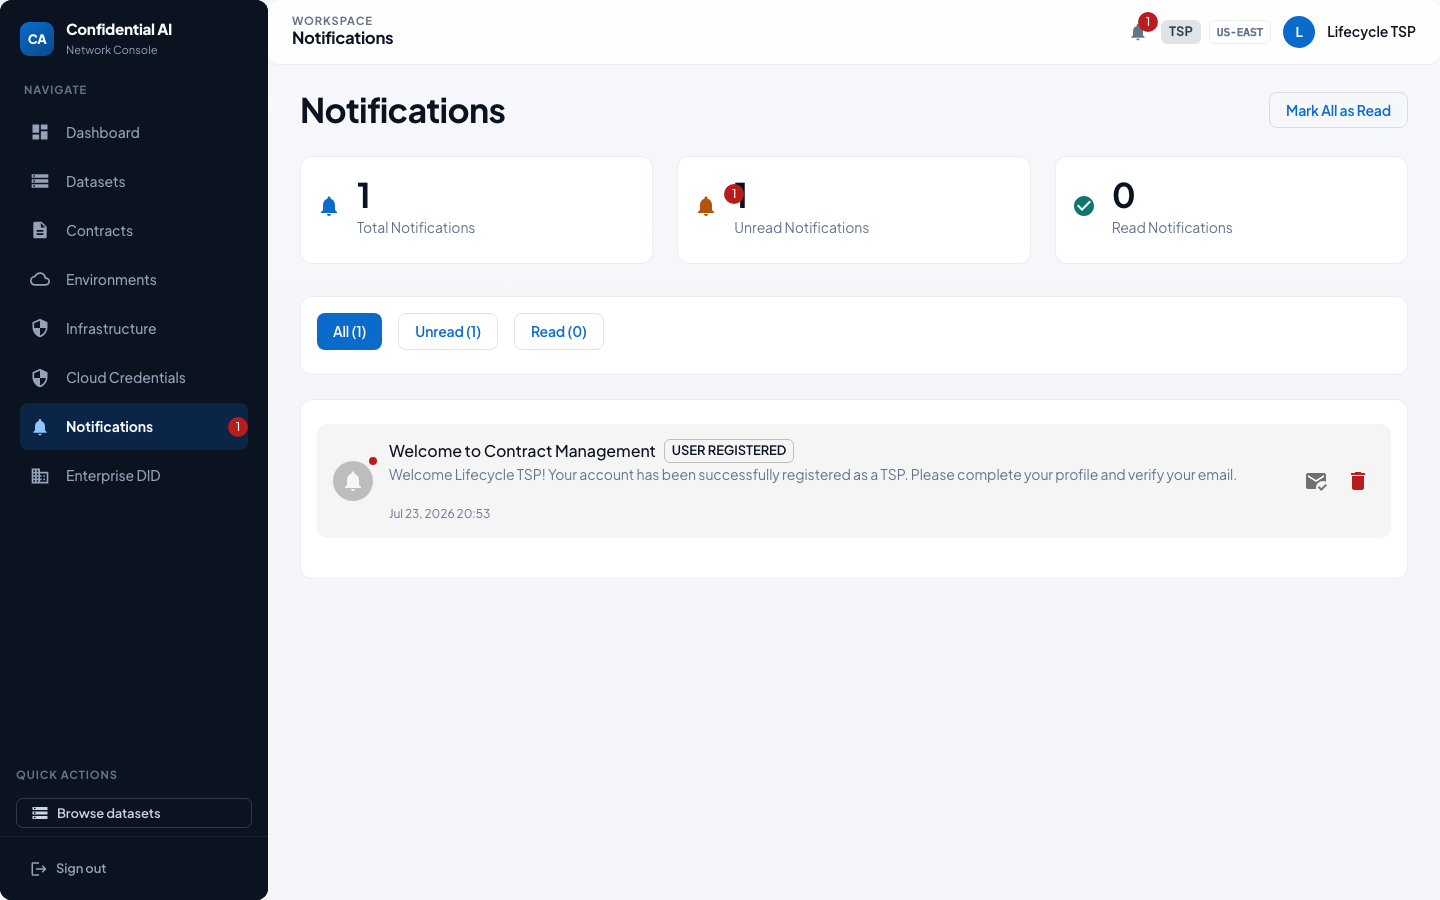
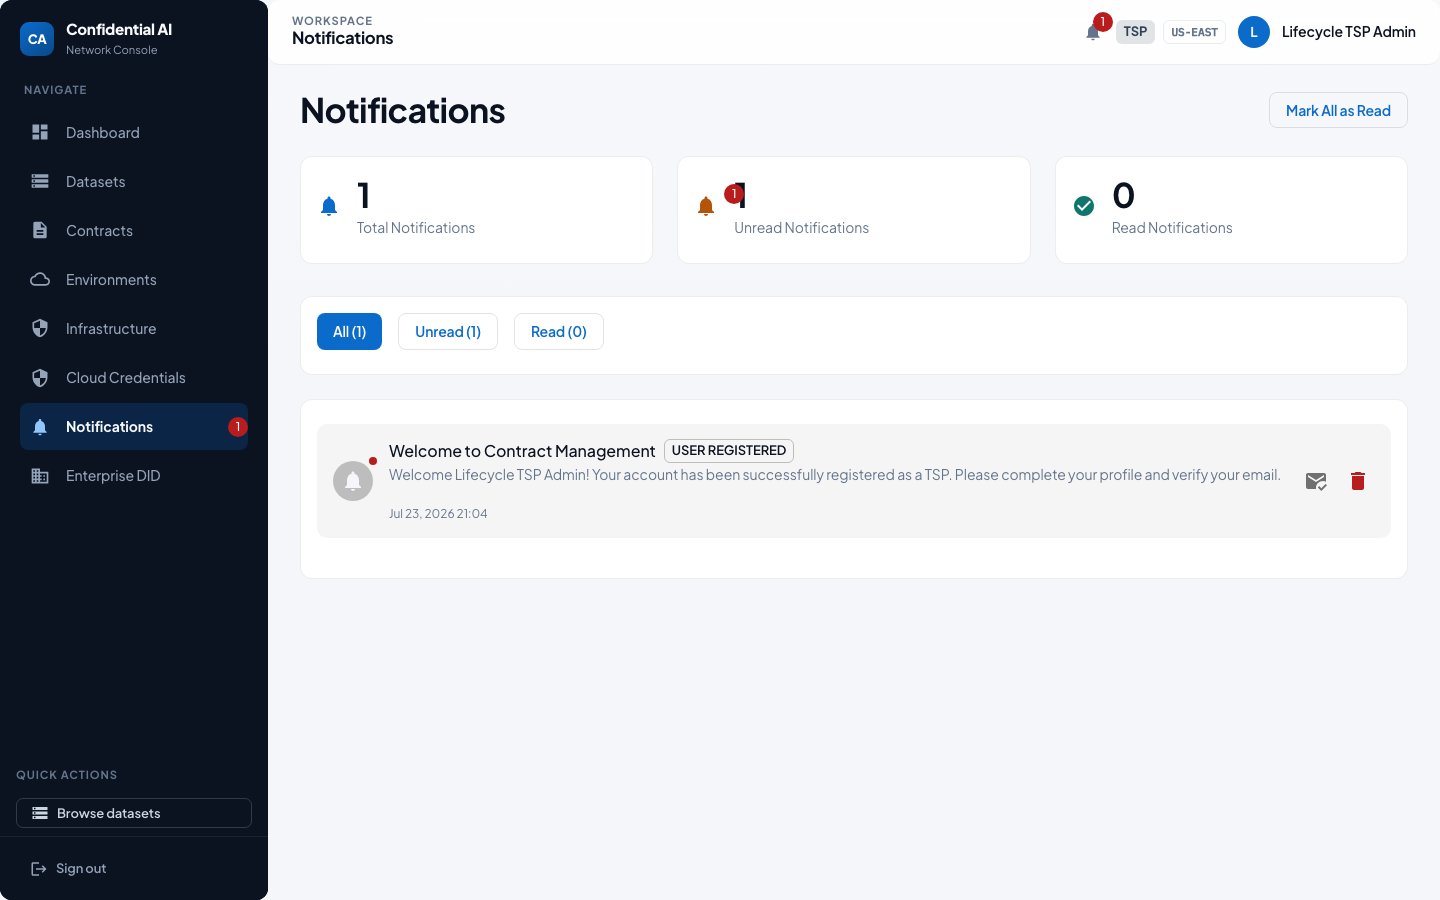
docs: use enterprise registration in lifecycle guide
Onboard TDC, TDP, and TSP via User Type=Enterprise with organization
fields, then refresh lifecycle screenshots and guide copy.

diff --git a/frontend/tests/e2e/lifecycle-user-guide.spec.js b/frontend/tests/e2e/lifecycle-user-guide.spec.js
@@ -35,16 +35,36 @@ test.describe('Lifecycle user guide (screenshot tour)', () => {
     const tdpEmail = `lifecycle.tdp.${ts}@test.com`;
     const tspEmail = `lifecycle.tsp.${ts}@test.com`;
     const datasetName = `Lifecycle Dataset ${ts}`;
+    const orgs = {
+      TDC: 'Lifecycle Health AI Consortium',
+      TDP: 'Lifecycle Data Bank Corp',
+      TSP: 'Lifecycle Clean Room Compute',
+    };
 
-    async function registerViaUI({ name, email, partyType }) {
+    async function selectMui(labelText, optionName) {
+      const control = page.locator('.MuiFormControl-root').filter({ hasText: labelText }).first();
+      await control.getByRole('combobox').click();
+      await page.getByRole('option', { name: optionName }).click();
+    }
+
+    async function registerEnterpriseViaUI({ name, email, partyType, organization }) {
       await page.goto('/register');
       await expect(page.getByRole('heading', { name: 'User Registration', exact: true })).toBeVisible();
+
+      // User Type → Enterprise (exposes Organization and enterprise DID path).
+      await selectMui('User Type', /^Enterprise$/i);
+
       await page.getByLabel('Full Name').fill(name);
       await page.getByLabel('Email').fill(email);
-      await page.getByRole('combobox').nth(1).click();
-      await page.getByRole('option', { name: new RegExp(`\\(${partyType}\\)`, 'i') }).click();
+
+      await selectMui('Role', new RegExp(`\\(${partyType}\\)`, 'i'));
+
+      const orgField = page.getByLabel('Organization');
+      await expect(orgField).toBeVisible({ timeout: 10000 });
+      await orgField.fill(organization);
+
       await page.getByLabel('Public Key').fill('0x' + 'b'.repeat(64));
-      await settle(page, 300);
+      await settle(page, 400);
       return page;
     }
 
@@ -61,11 +81,19 @@ test.describe('Lifecycle user guide (screenshot tour)', () => {
       return match[1];
     }
 
-    // --- 1–3 Onboard participants ---
-    await registerViaUI({ name: 'Lifecycle TDC', email: tdcEmail, partyType: 'TDC' });
+    // --- 1–3 Onboard participants (Enterprise registration) ---
+    await registerEnterpriseViaUI({
+      name: 'Lifecycle TDC Admin',
+      email: tdcEmail,
+      partyType: 'TDC',
+      organization: orgs.TDC,
+    });
     steps.push({
-      title: 'Onboard TDC (register)',
-      body: 'Each participant starts at **User Registration**. Select party type **TDC (Training Data Consumer)**, then register.',
+      title: 'Enterprise onboard TDC',
+      body: [
+        'Open **User Registration** and set **User Type** to **Enterprise**.',
+        'Choose role **TDC (Training Data Consumer)**, enter the organization name, public key, and register.',
+      ].join('\n'),
       ...(await captureShot(page, '01-onboard-tdc-register.png')),
     });
     const tdcTemp = await submitRegistration();
@@ -76,15 +104,23 @@ test.describe('Lifecycle user guide (screenshot tour)', () => {
     });
     steps.push({
       title: 'TDC first login dashboard',
-      body: 'After first-login password setup, the TDC lands on their dashboard and can browse datasets / create contracts.',
+      body: 'After first-login password setup, the enterprise TDC lands on their dashboard and can browse datasets / create contracts.',
       ...(await captureShot(page, '02-onboard-tdc-dashboard.png')),
     });
     await logoutViaUI(page);
 
-    await registerViaUI({ name: 'Lifecycle TDP', email: tdpEmail, partyType: 'TDP' });
+    await registerEnterpriseViaUI({
+      name: 'Lifecycle TDP Admin',
+      email: tdpEmail,
+      partyType: 'TDP',
+      organization: orgs.TDP,
+    });
     steps.push({
-      title: 'Onboard TDP (register)',
-      body: 'Register a **TDP (Training Data Provider)** who will publish datasets and sign contracts that use them.',
+      title: 'Enterprise onboard TDP',
+      body: [
+        'Register an enterprise **TDP (Training Data Provider)** with organization details.',
+        'This party publishes datasets and signs contracts that use them.',
+      ].join('\n'),
       ...(await captureShot(page, '03-onboard-tdp-register.png')),
     });
     const tdpTemp = await submitRegistration();
@@ -142,10 +178,18 @@ test.describe('Lifecycle user guide (screenshot tour)', () => {
     });
     await logoutViaUI(page);
 
-    await registerViaUI({ name: 'Lifecycle TSP', email: tspEmail, partyType: 'TSP' });
+    await registerEnterpriseViaUI({
+      name: 'Lifecycle TSP Admin',
+      email: tspEmail,
+      partyType: 'TSP',
+      organization: orgs.TSP,
+    });
     steps.push({
-      title: 'Onboard TSP / CCRP (register)',
-      body: 'Register a **TSP** (Tech Service Provider; also called CCRP in older docs) who hosts the training environment and co-signs the contract.',
+      title: 'Enterprise onboard TSP / CCRP',
+      body: [
+        'Register an enterprise **TSP** (Tech Service Provider; also called CCRP in older docs).',
+        'This party hosts the training environment and co-signs the contract.',
+      ].join('\n'),
       ...(await captureShot(page, '06-onboard-tsp-register.png')),
     });
     const tspTemp = await submitRegistration();
@@ -156,7 +200,7 @@ test.describe('Lifecycle user guide (screenshot tour)', () => {
     await expect(page.getByRole('main')).toBeVisible({ timeout: 60000 });
     steps.push({
       title: 'TSP Local cloud readiness',
-      body: 'Configure the TSP with a **Local** provider so contracts can run with `TRAINING_EXECUTION_MODE=local-docker` in this environment.',
+      body: 'Configure the enterprise TSP with a **Local** provider so contracts can run with `TRAINING_EXECUTION_MODE=local-docker` in this environment.',
       ...(await captureShot(page, '07-onboard-tsp-local.png')),
     });
     await logoutViaUI(page);

diff --git a/frontend/tests/e2e/helpers/lifecycle-user-guide.js b/frontend/tests/e2e/helpers/lifecycle-user-guide.js
@@ -135,7 +135,7 @@ function buildMarkdown({ steps, generatedAt }) {
     '',
     'This guide walks through the full multi-party happy path in the local stack:',
     '',
-    '1. Onboard **TDC**, **TDP**, and **TSP/CCRP** participants',
+    '1. **Enterprise-register** **TDC**, **TDP**, and **TSP/CCRP** (User Type = Enterprise + organization)',
     '2. TDP publishes a dataset',
     '3. TDC creates a Ricardian contract',
     '4. TDP and TSP are notified, review, and sign',
@@ -145,7 +145,8 @@ function buildMarkdown({ steps, generatedAt }) {
     '',
     '| Role | Notes |',
     '|---|---|',
-    '| TDC / TDP / TSP | Fresh users registered during the guide run (emails in screenshots) |',
+    '| TDC / TDP / TSP | Fresh **enterprise** users registered during the guide run (emails + orgs in screenshots) |',
+    '| Registration mode | **User Type = Enterprise** (organization field required in the UI tour) |',
     '| Password after first login | `TestNewPassword123!` |',
     '| Local compute | TSP is configured with **Local** cloud provider for `TRAINING_EXECUTION_MODE=local-docker` |',
     '',

diff --git a/docs/guides/lifecycle-user-guide/LIFECYCLE_USER_GUIDE.md b/docs/guides/lifecycle-user-guide/LIFECYCLE_USER_GUIDE.md
@@ -5,7 +5,7 @@
 
 This guide walks through the full multi-party happy path in the local stack:
 
-1. Onboard **TDC**, **TDP**, and **TSP/CCRP** participants
+1. **Enterprise-register** **TDC**, **TDP**, and **TSP/CCRP** (User Type = Enterprise + organization)
 2. TDP publishes a dataset
 3. TDC creates a Ricardian contract
 4. TDP and TSP are notified, review, and sign
@@ -15,29 +15,32 @@ This guide walks through the full multi-party happy path in the local stack:
 
 | Role | Notes |
 |---|---|
-| TDC / TDP / TSP | Fresh users registered during the guide run (emails in screenshots) |
+| TDC / TDP / TSP | Fresh **enterprise** users registered during the guide run (emails + orgs in screenshots) |
+| Registration mode | **User Type = Enterprise** (organization field required in the UI tour) |
 | Password after first login | `TestNewPassword123!` |
 | Local compute | TSP is configured with **Local** cloud provider for `TRAINING_EXECUTION_MODE=local-docker` |
 
 ## Happy path
 
-### 1. Onboard TDC (register)
+### 1. Enterprise onboard TDC
 
-Each participant starts at **User Registration**. Select party type **TDC (Training Data Consumer)**, then register.
+Open **User Registration** and set **User Type** to **Enterprise**.
+Choose role **TDC (Training Data Consumer)**, enter the organization name, public key, and register.
 
-![Onboard TDC (register)](screenshots/01-onboard-tdc-register.png)
+![Enterprise onboard TDC](screenshots/01-onboard-tdc-register.png)
 
 ### 2. TDC first login dashboard
 
-After first-login password setup, the TDC lands on their dashboard and can browse datasets / create contracts.
+After first-login password setup, the enterprise TDC lands on their dashboard and can browse datasets / create contracts.
 
 ![TDC first login dashboard](screenshots/02-onboard-tdc-dashboard.png)
 
-### 3. Onboard TDP (register)
+### 3. Enterprise onboard TDP
 
-Register a **TDP (Training Data Provider)** who will publish datasets and sign contracts that use them.
+Register an enterprise **TDP (Training Data Provider)** with organization details.
+This party publishes datasets and signs contracts that use them.
 
-![Onboard TDP (register)](screenshots/03-onboard-tdp-register.png)
+![Enterprise onboard TDP](screenshots/03-onboard-tdp-register.png)
 
 ### 4. TDP first login dashboard
 
@@ -51,15 +54,16 @@ The TDP publishes a catalog dataset. TDCs can select it when creating a Ricardia
 
 ![TDP publishes a dataset](screenshots/05-tdp-dataset-published.png)
 
-### 6. Onboard TSP / CCRP (register)
+### 6. Enterprise onboard TSP / CCRP
 
-Register a **TSP** (Tech Service Provider; also called CCRP in older docs) who hosts the training environment and co-signs the contract.
+Register an enterprise **TSP** (Tech Service Provider; also called CCRP in older docs).
+This party hosts the training environment and co-signs the contract.
 
-![Onboard TSP / CCRP (register)](screenshots/06-onboard-tsp-register.png)
+![Enterprise onboard TSP / CCRP](screenshots/06-onboard-tsp-register.png)
 
 ### 7. TSP Local cloud readiness
 
-Configure the TSP with a **Local** provider so contracts can run with `TRAINING_EXECUTION_MODE=local-docker` in this environment.
+Configure the enterprise TSP with a **Local** provider so contracts can run with `TRAINING_EXECUTION_MODE=local-docker` in this environment.
 
 ![TSP Local cloud readiness](screenshots/07-onboard-tsp-local.png)
 
